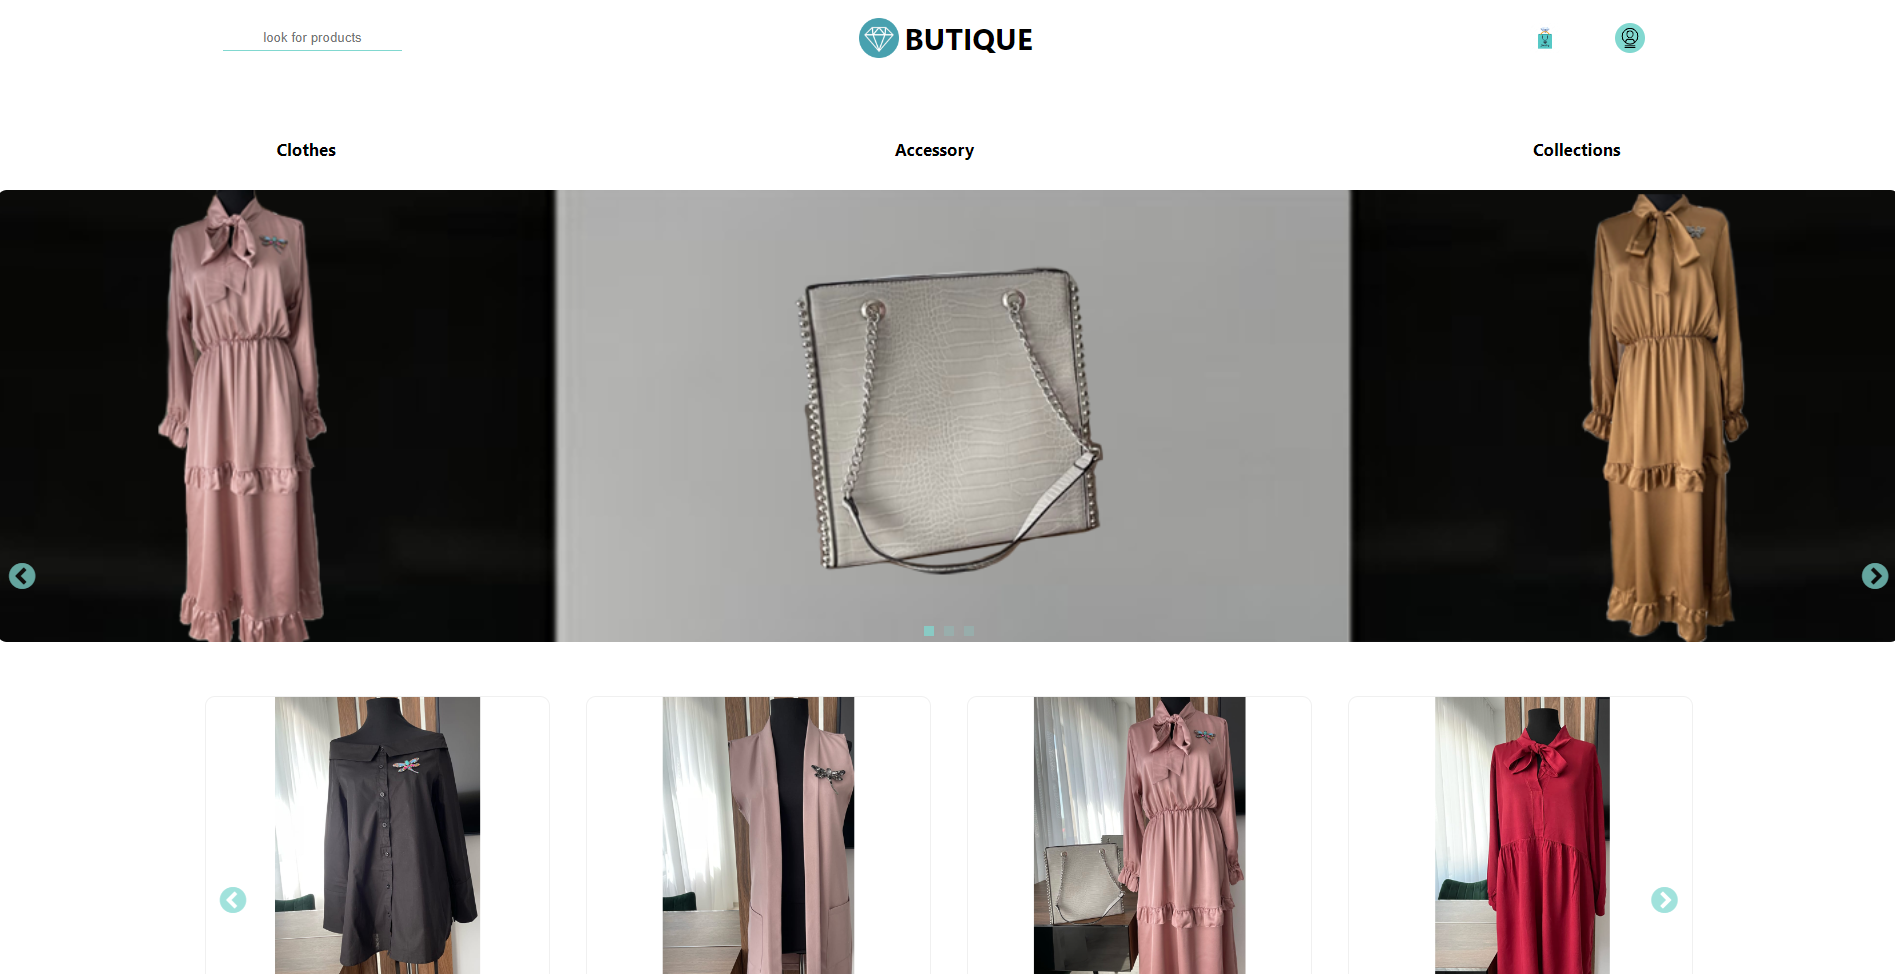
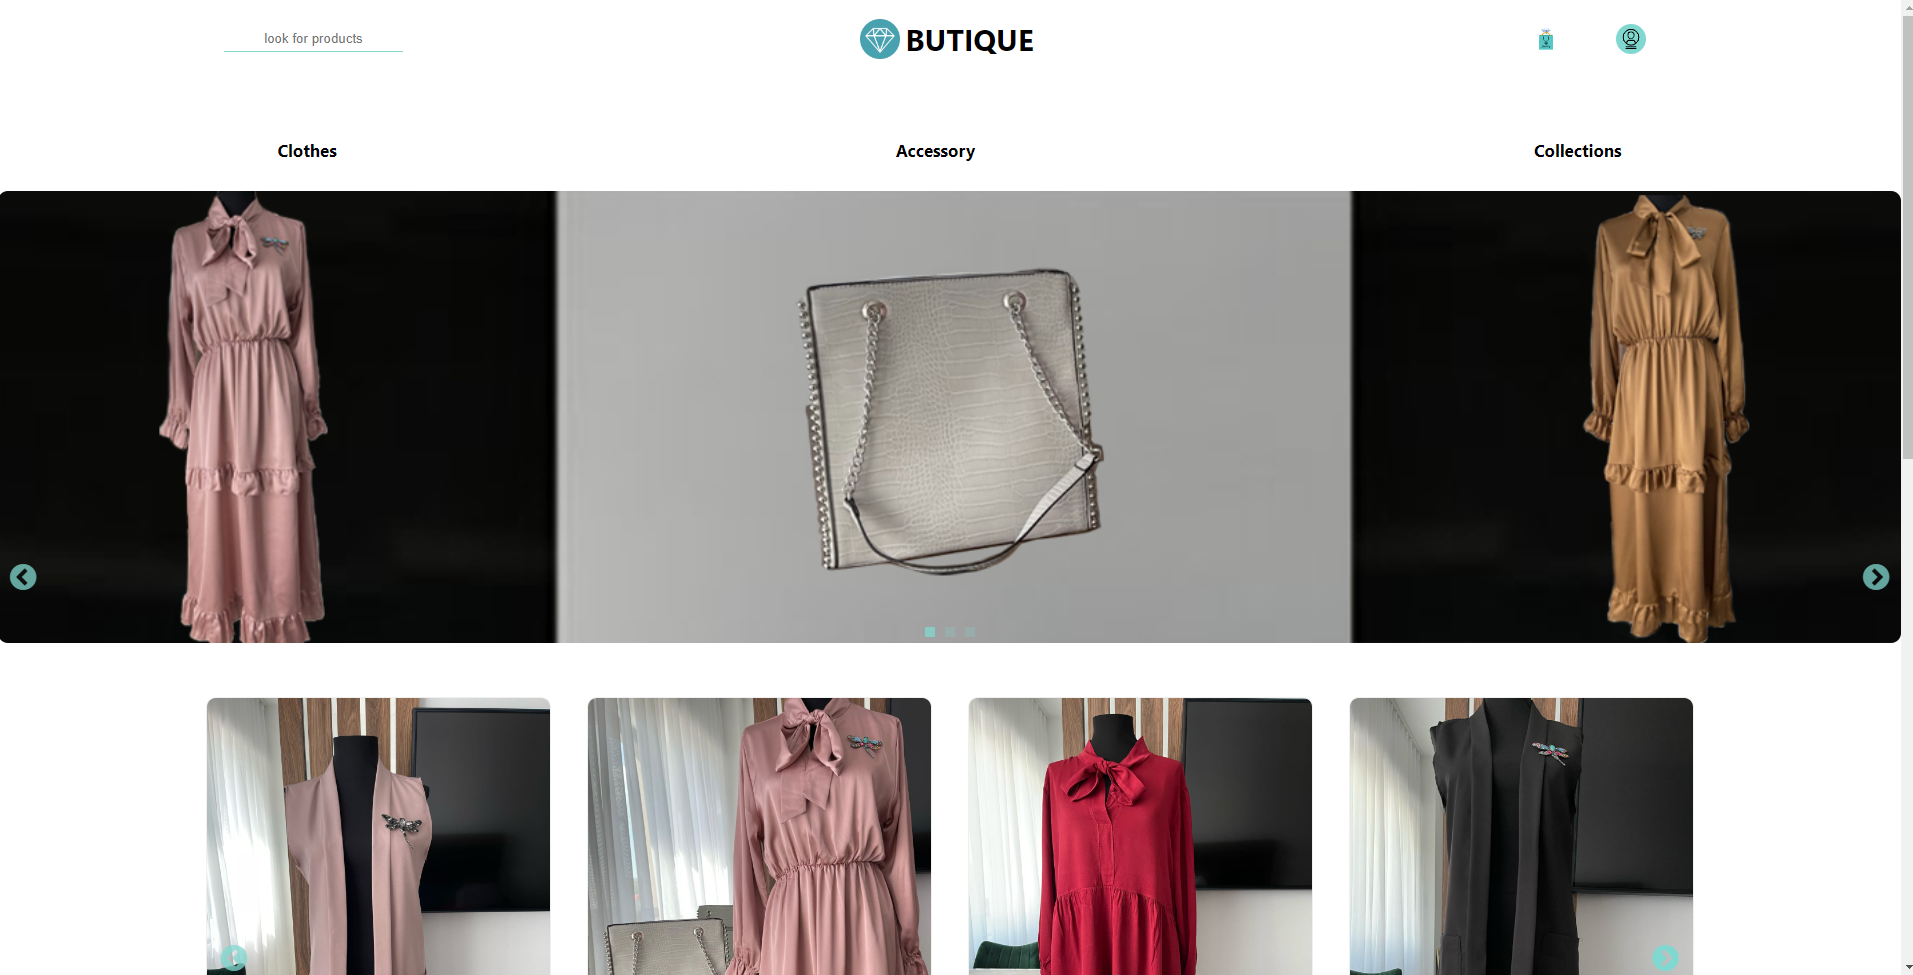
updated portfolio

diff --git a/src/components/About_Template.js b/src/components/About_Template.js
@@ -16,10 +16,10 @@ doc.addImage(CV_MARIN_ADELIN_MARIUS, "PNG", 0, 0, 460, 600);
 doc.textWithLink("                      ", 25, 385, {
   url: "https://github.com/Adelin04",
 });
-doc.textWithLink("                      ", 25, 400, {
+doc.textWithLink("                      ", 25, 396, {
   url: "https://adelin-marin-portfolio.netlify.app",
 });
-doc.textWithLink("                      ", 25, 410, {
+doc.textWithLink("                      ", 25, 407, {
   url: "https://www.linkedin.com/in/adelin-marin-5b1a881b8/",
 });
 
